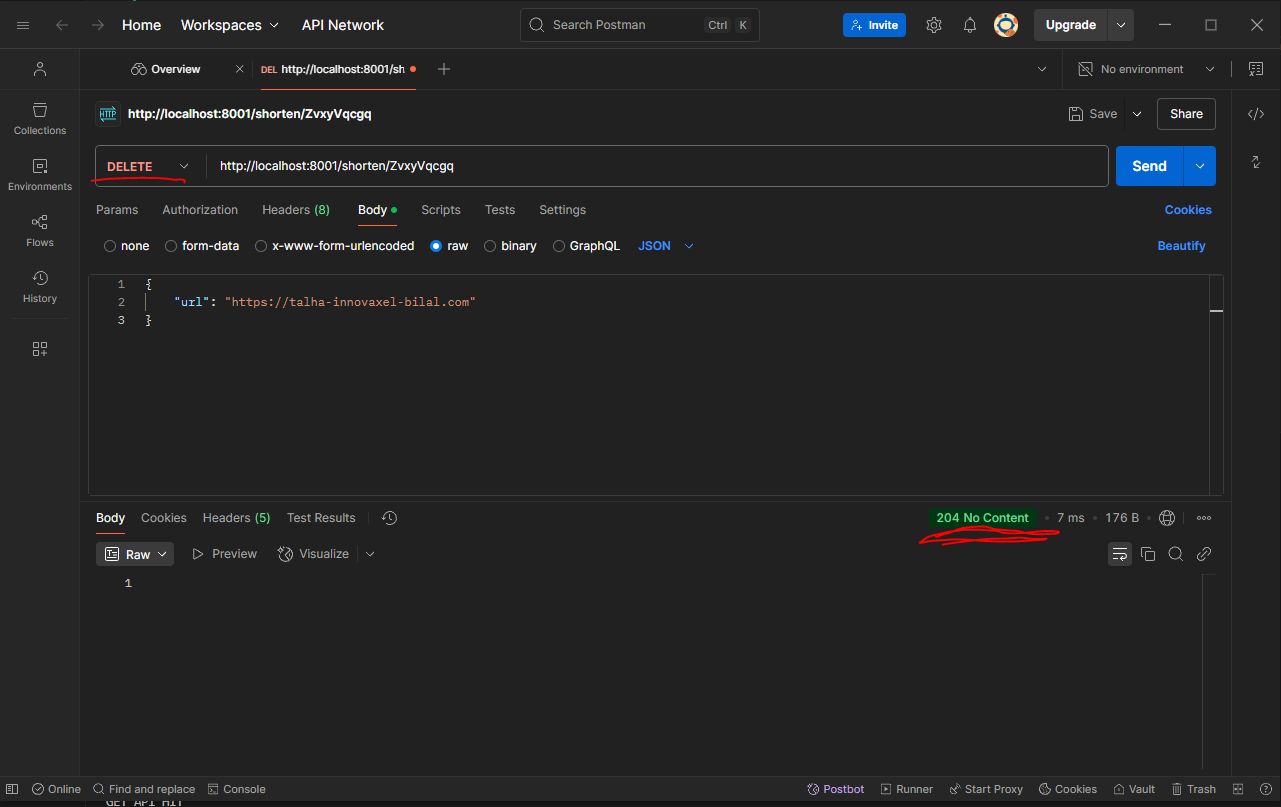
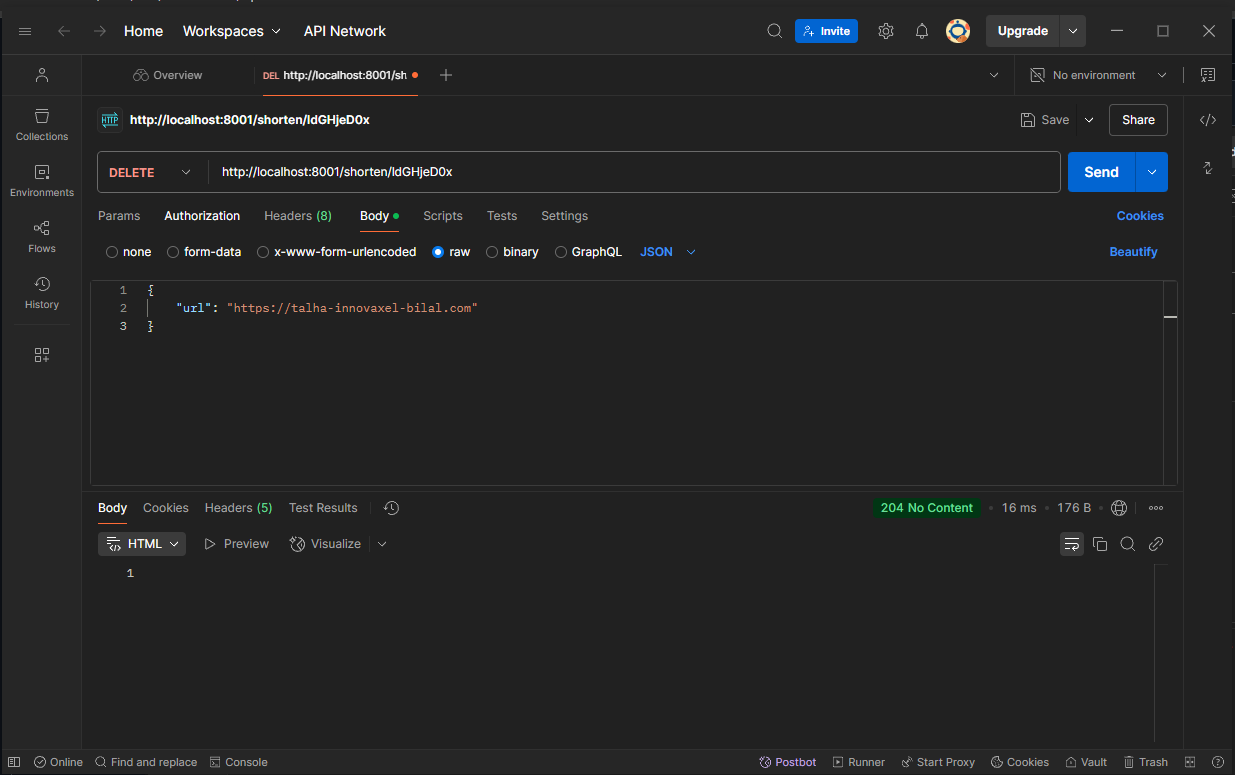
Improved DELETE API and README

diff --git a/controller/logic.js b/controller/logic.js
@@ -30,13 +30,11 @@ async function deletedUrl(req, res) {
     console.log("DELETE API HIT")
 
     try {
-        const { url } = req.body;
-
-        if (!urlencoded) return res.status(400).json({ error: "Enter a ShortId" });
+        const shortId = req.params.shortId
 
 
         const newUrl = await URL.findOneAndDelete({
-            shortCode: url,
+            shortCode: shortId,
         });
         if (!newUrl) return res.status(404).json({ error: "No Such Short Id exists!" })
         return res.status(204).json({ message: "Short URL Deleted!" });

diff --git a/README.md b/README.md
@@ -23,6 +23,8 @@ This project follows the **Model-View-Controller (MVC)** design pattern for bett
   Defines API endpoints and links them to controller functions.
 - **Server (`index.js`)**  
   Initializes Express, connects to MongoDB, and sets up middleware.
+- **View**
+  As there was no real need for front-end of this project, I have not used View in it
 
 ### 🔄 **Why MVC?**
 
@@ -72,16 +74,16 @@ This project follows the **Model-View-Controller (MVC)** design pattern for bett
 
 ### 1⃣ Create Short URL
 
-![Create Short URL](https://raw.githubusercontent.com/iTalhaBilal/talha-innovaxel/working/screenshots/create-short-url.png)
+![Create Short URL](https://github.com/iTalhaBilal/talha-innovaxel-bilal/blob/dev/screenshots/create.PNG?raw=true)
 
 ### 2⃣ Get Original URL
 
-![Get Original URL](./screenshots/get.png)
+![Get Original URL with Count Increment](https://github.com/iTalhaBilal/talha-innovaxel-bilal/blob/dev/screenshots/get.PNG?raw=true)
 
 ### 3⃣ Update Short URL
 
-![Update Short URL](./screenshots/update.png)
+![Update Short URL](https://github.com/iTalhaBilal/talha-innovaxel-bilal/blob/dev/screenshots/update.PNG?raw=true)
 
 ### 4⃣ Delete Short URL
 
-![Delete Short URL](./screenshots/delete.png)
+![Delete Short URL](https://github.com/iTalhaBilal/talha-innovaxel-bilal/blob/dev/screenshots/delete.PNG?raw=true)
